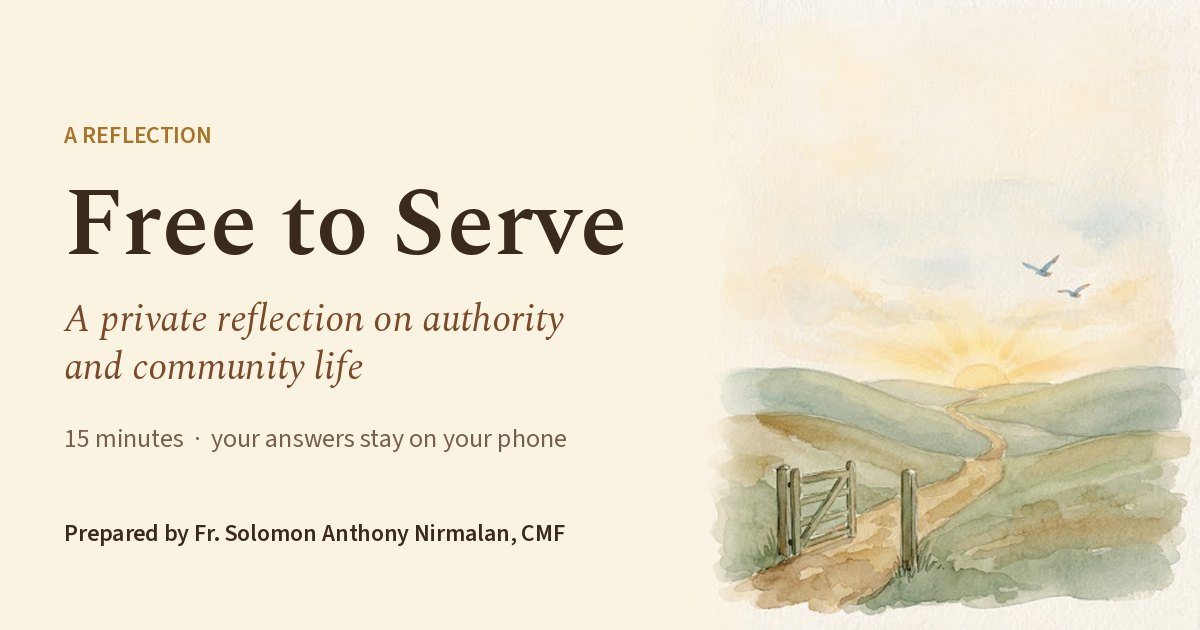
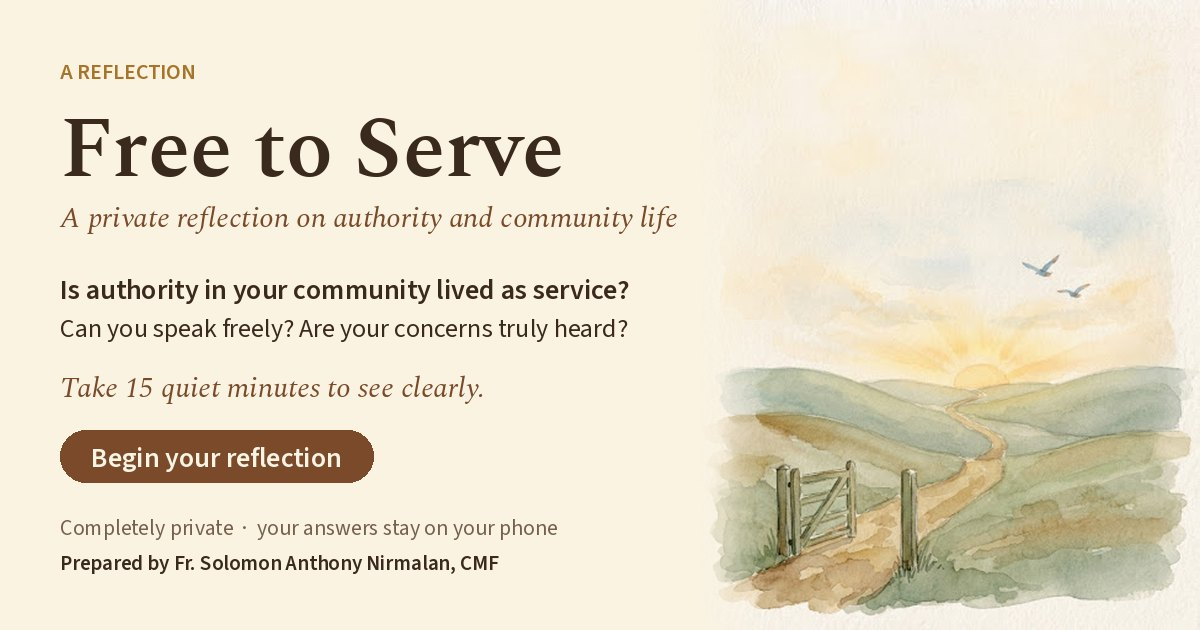
Add inviting text to the link card
Claude-Session: https://claude.ai/code/session_01WQJDqMiwpF9qQi8PmbQ1C4

diff --git a/index.html b/index.html
@@ -8,7 +8,7 @@
 <meta name="description" content="A private reflection on authority and community life for women and men religious and clergy.">
 <meta property="og:type" content="website">
 <meta property="og:title" content="Free to Serve">
-<meta property="og:description" content="A private reflection on authority and community life. 15 minutes. Your answers stay on your phone.">
+<meta property="og:description" content="Is authority in your community lived as service? Can you speak freely? Take 15 quiet minutes to reflect. Completely private: your answers stay on your phone.">
 <meta property="og:url" content="https://nirmallead07.github.io/free-to-serve/">
 <meta property="og:image" content="https://nirmallead07.github.io/free-to-serve/preview.jpg">
 <meta property="og:image:width" content="1200">
